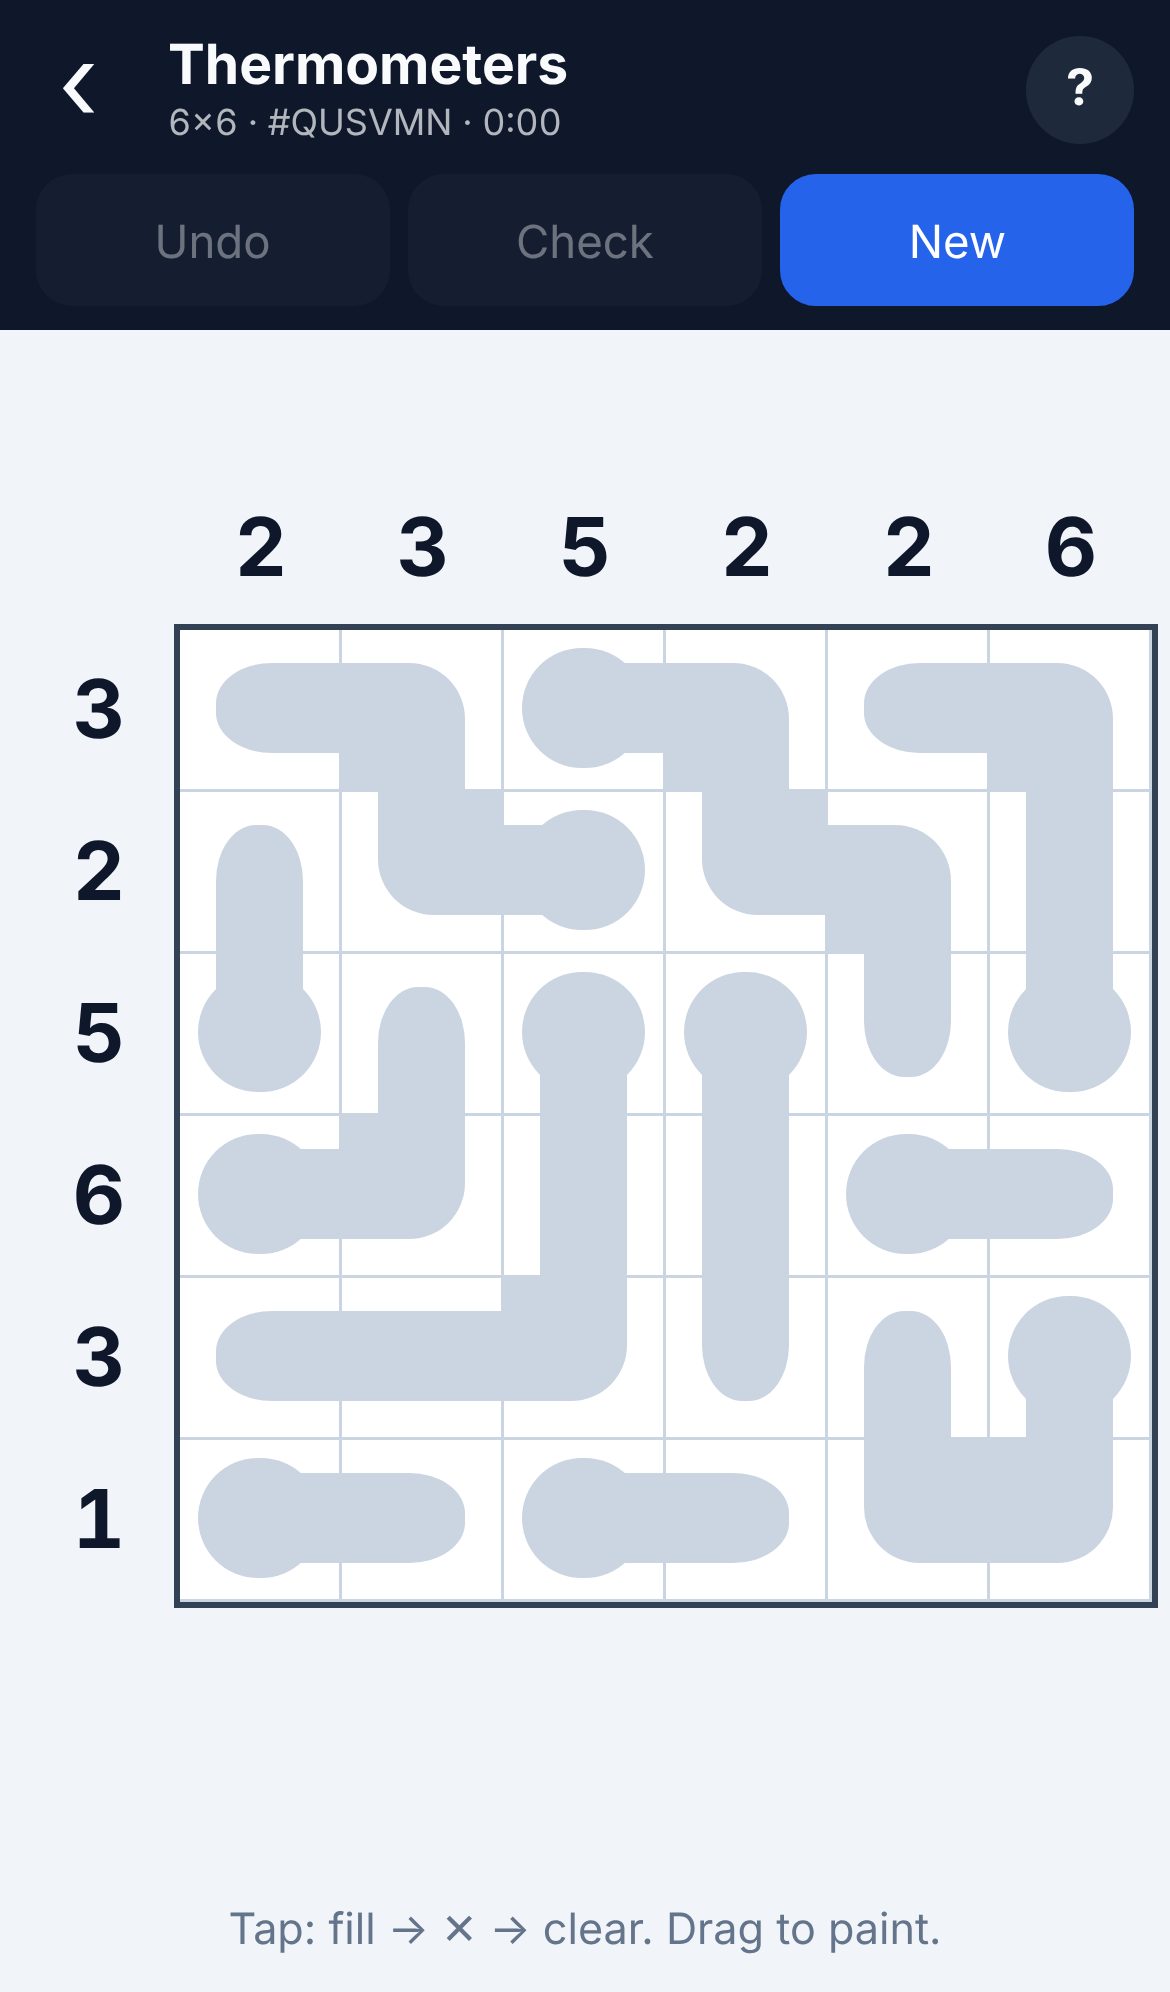
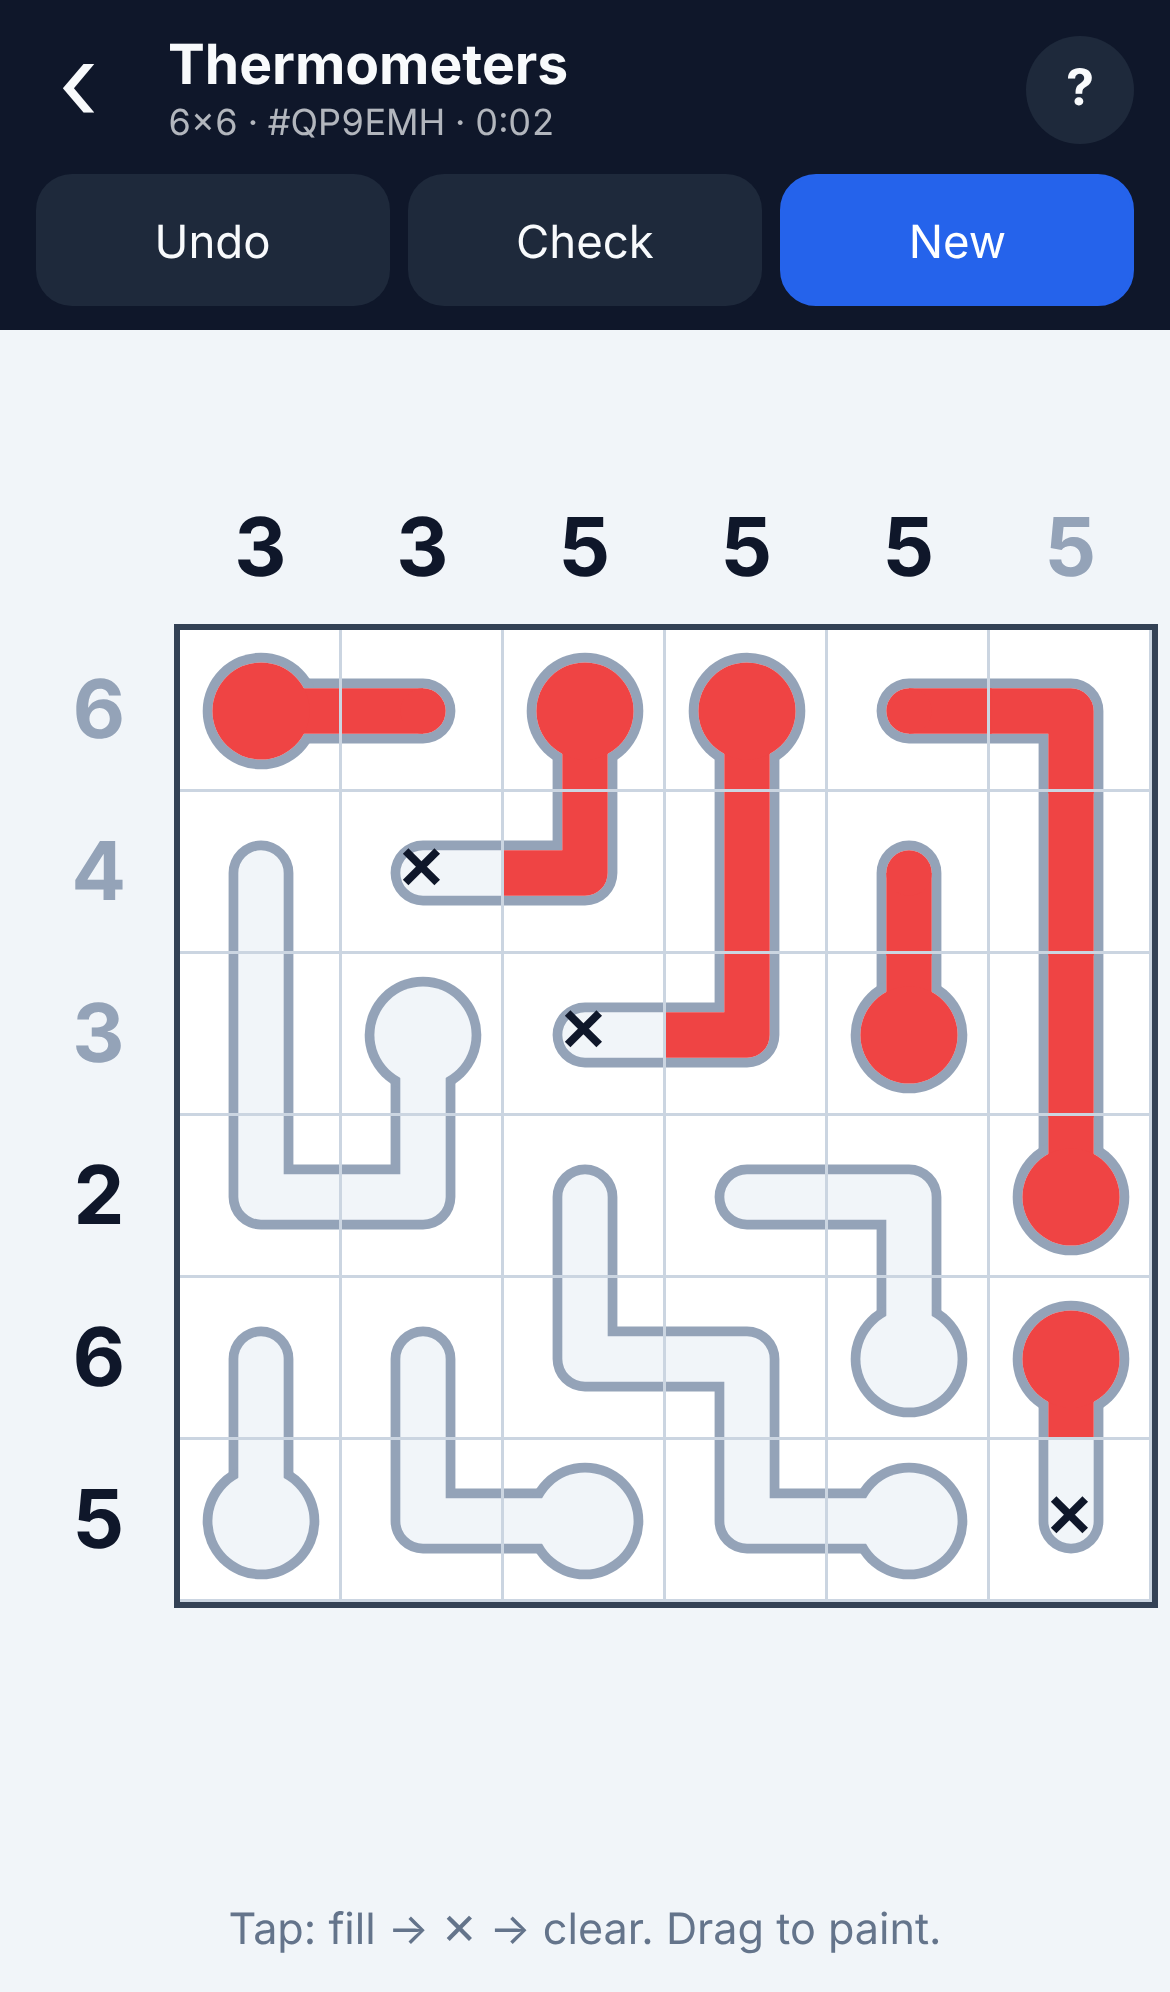
Redraw the Thermometers board as real thermometers (#14)
Bends were drawn as fat squares and the bulb was barely wider than the
tube, so thermometers looked like blobs and it was hard to tell where
each one started. Draw each thermometer as one outlined glass tube with a
clearly larger bulb, and show the mercury inside it. Grid lines and the
✕ marks stay on top so cells are still easy to count.

Also make the rules example show a bulb and tube instead of digits, and
refresh the README screenshot.

Claude-Session: https://claude.ai/code/session_0149otepn1aRDpoDSKWaZ4pP

diff --git a/src/games/thermometers/index.ts b/src/games/thermometers/index.ts
@@ -10,6 +10,12 @@ const FILLED = 1;
 const MARKED = 2;
 const NAMES = ['empty', 'filled', 'marked empty'];
 
+const SVG = 'http://www.w3.org/2000/svg';
+/** Sizes in cell units: tube width, bulb radius and glass thickness. */
+const TUBE = 0.4;
+const BULB = 0.36;
+const RIM = 0.06;
+
 export interface ThermometersState {
   /** Per cell: EMPTY, FILLED or MARKED (known to be empty). */
   cells: number[];
@@ -35,23 +41,53 @@ export const thermometers: GameModule<ThermometersPuzzle, ThermometersState> = {
     board.setAttribute('role', 'grid');
     board.setAttribute('aria-label', t('Thermometers board'));
     const eb = buildEdgeBoard(board, n, n, { top: true, left: true });
+    // One drawing over the whole field, in cell units: each thermometer is a glass tube with a bulb at its start,
+    // holding one piece of mercury per cell.
+    const svg = document.createElementNS(SVG, 'svg');
+    svg.setAttribute('class', 'thermo-art');
+    svg.setAttribute('viewBox', `0 0 ${n} ${n}`);
+    svg.setAttribute('aria-hidden', 'true');
+    const draw = (parent: Element, tag: string, cls: string, attrs: Record<string, string | number>) => {
+      const node = document.createElementNS(SVG, tag);
+      node.setAttribute('class', cls);
+      for (const [k, v] of Object.entries(attrs)) node.setAttribute(k, String(v));
+      parent.append(node);
+      return node;
+    };
+    const at = (cell: number): [number, number] => [(cell % n) + 0.5, Math.floor(cell / n) + 0.5];
+    const line = (pts: [number, number][]) => `M${pts.map((p) => p.join(' ')).join('L')}`;
     // The cell before each one on its thermometer (towards the bulb), or -1 for a bulb.
     const before = new Array<number>(n * n).fill(-1);
+    const mercury = new Array<SVGGElement>(n * n);
     paths.forEach((cells) => {
+      const g = draw(svg, 'g', 'thermo', {});
+      const [bx, by] = at(cells[0]);
+      const d = line(cells.map(at));
+      draw(g, 'path', 'glass', { d });
+      draw(g, 'circle', 'glass-bulb', { cx: bx, cy: by, r: BULB });
+      draw(g, 'path', 'bore', { d });
+      draw(g, 'circle', 'bore-bulb', { cx: bx, cy: by, r: BULB - RIM });
       cells.forEach((cell, k) => {
-        const link = [cells[k - 1], cells[k + 1]].filter((x) => x !== undefined);
-        const flag = (j: number) => link.includes(j);
-        const [u, d, l, r] = [flag(cell - n), flag(cell + n), flag(cell - 1), flag(cell + 1)];
-        const tube = el('span', 'tube');
-        const pad = 22;
-        tube.style.inset = `${u ? 0 : pad}% ${r ? 0 : pad}% ${d ? 0 : pad}% ${l ? 0 : pad}%`;
-        const rad = (a: boolean, b: boolean) => (a || b ? '0' : '45%');
-        tube.style.borderRadius = `${rad(u, l)} ${rad(u, r)} ${rad(d, r)} ${rad(d, l)}`;
-        eb.cells[cell].append(tube);
-        if (k === 0) eb.cells[cell].append(el('span', 'bulb'));
-        else before[cell] = cells[k - 1];
+        const [x, y] = at(cell);
+        const m = draw(g, 'g', 'mercury', {}) as SVGGElement;
+        const pts: [number, number][] = [[x, y]];
+        if (k > 0) {
+          // Start a little inside the previous cell so neighbouring pieces join without a seam.
+          const [px, py] = at(cells[k - 1]);
+          pts.unshift([x + (px - x) * 0.51, y + (py - y) * 0.51]);
+          before[cell] = cells[k - 1];
+        }
+        if (k < cells.length - 1) {
+          const [nx, ny] = at(cells[k + 1]);
+          pts.push([(x + nx) / 2, (y + ny) / 2]);
+        }
+        if (pts.length > 1) draw(m, 'path', 'level', { d: line(pts) });
+        if (k === 0) draw(m, 'circle', 'drop', { cx: x, cy: y, r: BULB - RIM });
+        else if (k === cells.length - 1) draw(m, 'circle', 'drop', { cx: x, cy: y, r: TUBE / 2 - RIM });
+        mercury[cell] = m;
       });
     });
+    eb.field.prepend(svg);
     eb.top.forEach((c, k) => (c.textContent = String(colCounts[k])));
     eb.left.forEach((c, k) => (c.textContent = String(rowCounts[k])));
     ctx.fit(eb.cols, eb.rows);
@@ -68,7 +104,7 @@ export const thermometers: GameModule<ThermometersPuzzle, ThermometersState> = {
           cols[i % n]++;
         }
         // Mercury can't float above an empty section.
-        cell.classList.toggle('fill', v === FILLED);
+        mercury[i].classList.toggle('on', v === FILLED);
         cell.classList.toggle('mark', v === MARKED);
         cell.classList.toggle('clash', v === FILLED && before[i] >= 0 && s[before[i]] === MARKED);
         cell.classList.remove('wrong');

diff --git a/src/style.css b/src/style.css
@@ -1902,38 +1902,73 @@ button.primary {
 /* Thermometers */
 .board-thermometers {
   --mercury: #ef4444;
-  --glass: #cbd5e1;
+  --glass: #94a3b8;
+  --bore: #f1f5f9;
 }
 @media (prefers-color-scheme: dark) {
   .board-thermometers {
-    --glass: #475569;
+    --glass: #94a3b8;
+    --bore: #0f172a;
   }
 }
-.board-thermometers .cell .tube {
-  position: absolute;
-  background: var(--glass);
+/* The thermometers are one drawing under the (see-through) cells, so the grid lines and marks stay on top of it. */
+.board-thermometers .edge-field {
+  position: relative;
+  background: var(--surface);
 }
-.board-thermometers .cell .bulb {
-  position: absolute;
-  width: 76%;
-  height: 76%;
-  border-radius: 50%;
-  background: var(--glass);
+.board-thermometers .cell {
+  background: none;
 }
-.board-thermometers .cell.fill .tube,
-.board-thermometers .cell.fill .bulb {
-  background: var(--mercury);
+.board-thermometers .thermo-art {
+  position: absolute;
+  inset: 0;
+  width: 100%;
+  height: 100%;
+  pointer-events: none;
+}
+.board-thermometers .thermo-art path {
+  fill: none;
+  stroke-linejoin: round;
+}
+.board-thermometers .glass {
+  stroke: var(--glass);
+  stroke-width: 0.4;
+  stroke-linecap: round;
+}
+.board-thermometers .glass-bulb {
+  fill: var(--glass);
+}
+.board-thermometers .bore {
+  stroke: var(--bore);
+  stroke-width: 0.28;
+  stroke-linecap: round;
+}
+.board-thermometers .bore-bulb {
+  fill: var(--bore);
+}
+.board-thermometers .mercury {
+  display: none;
+}
+.board-thermometers .mercury.on {
+  display: inline;
+}
+.board-thermometers .level {
+  stroke: var(--mercury);
+  stroke-width: 0.28;
+}
+.board-thermometers .drop {
+  fill: var(--mercury);
 }
 .board-thermometers .cell.mark::after {
   content: '✕';
   position: absolute;
-  color: var(--muted);
-  font-size: calc(var(--cell) * 0.4);
+  color: var(--fg);
+  font-size: calc(var(--cell) * 0.36);
+  font-weight: 700;
   line-height: 1;
 }
-.board-thermometers .cell.clash .tube,
-.board-thermometers .cell.clash .bulb {
-  box-shadow: 0 0 0 2px var(--bad);
+.board-thermometers .cell.clash {
+  background: color-mix(in srgb, var(--bad) 25%, transparent);
 }
 .board-thermometers .cell.wrong {
   box-shadow: inset 0 0 0 3px var(--bad);

diff --git a/src/core/guides.ts b/src/core/guides.ts
@@ -592,7 +592,7 @@ const RAW: Record<string, RawGuide> = {
       es: ['Toca una casilla para alternar: llena → ✕ (vacía segura) → borrar. Arrastra para aplicar la misma marca a varias casillas.', 'Los números se ponen grises al cumplirse y rojos si se superan.'],
     },
     examples: [
-      ex(['*1 *1 .'], undefined, 'A thermometer of three cells filled up to its second cell: the bulb and the cell after it hold mercury.', 'Un termómetro de tres casillas lleno hasta la segunda: el bulbo y la casilla siguiente tienen mercurio.'),
+      ex(['*● *━ ━'], undefined, 'A thermometer of three cells filled up to its second cell: the bulb and the cell after it hold mercury.', 'Un termómetro de tres casillas lleno hasta la segunda: el bulbo y la casilla siguiente tienen mercurio.'),
     ],
     tips: {
       en: ['A filled cell forces everything between it and the bulb to be filled; an empty cell forces everything beyond it to be empty.', 'A row or column with 0 is empty; one whose count equals its length is full.', 'A tip cell far from the bulb can only be filled if the whole thermometer is.'],
